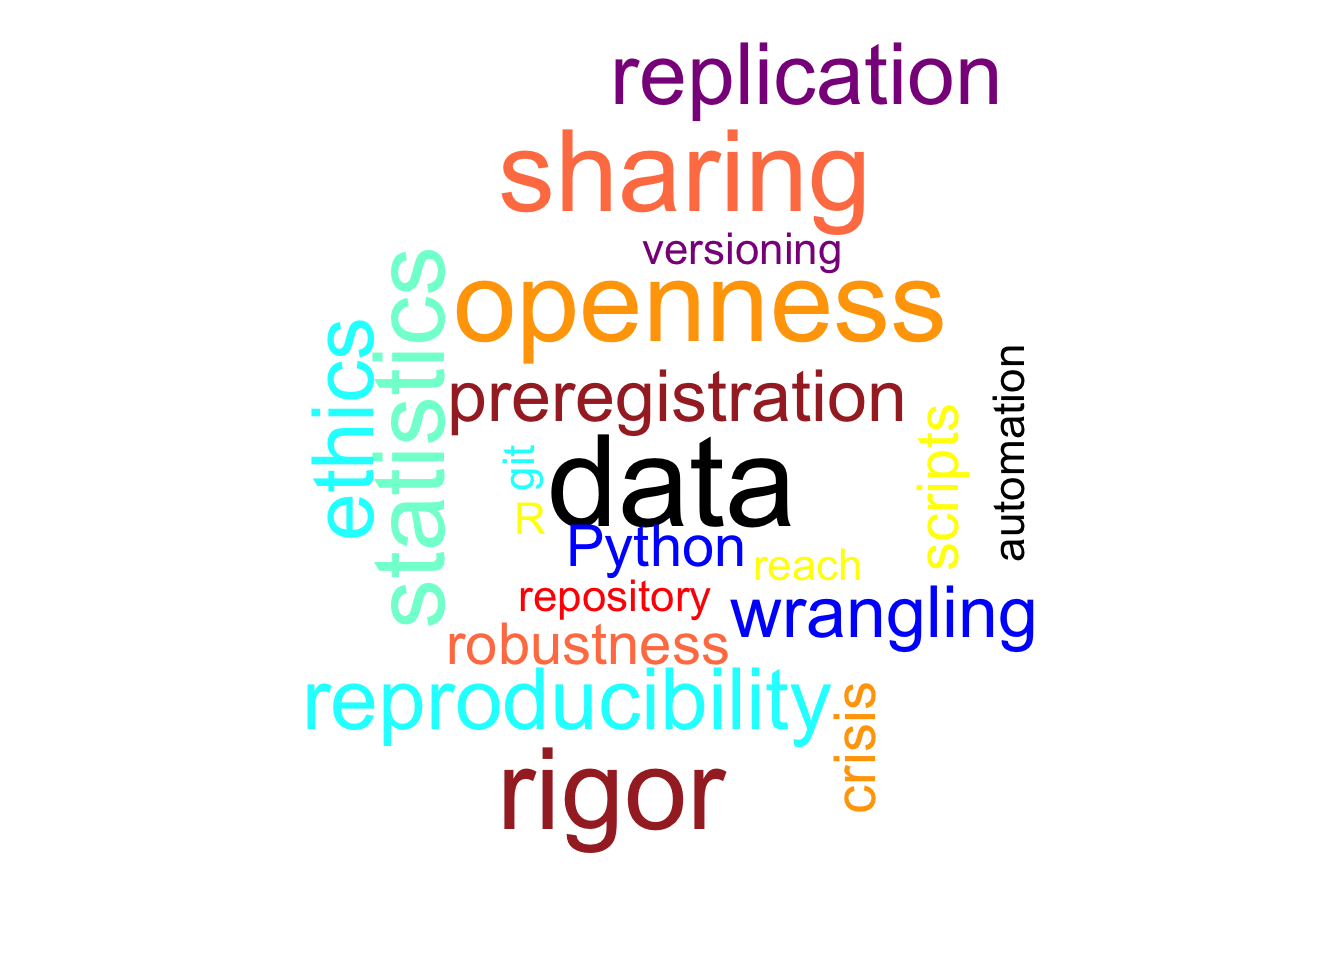
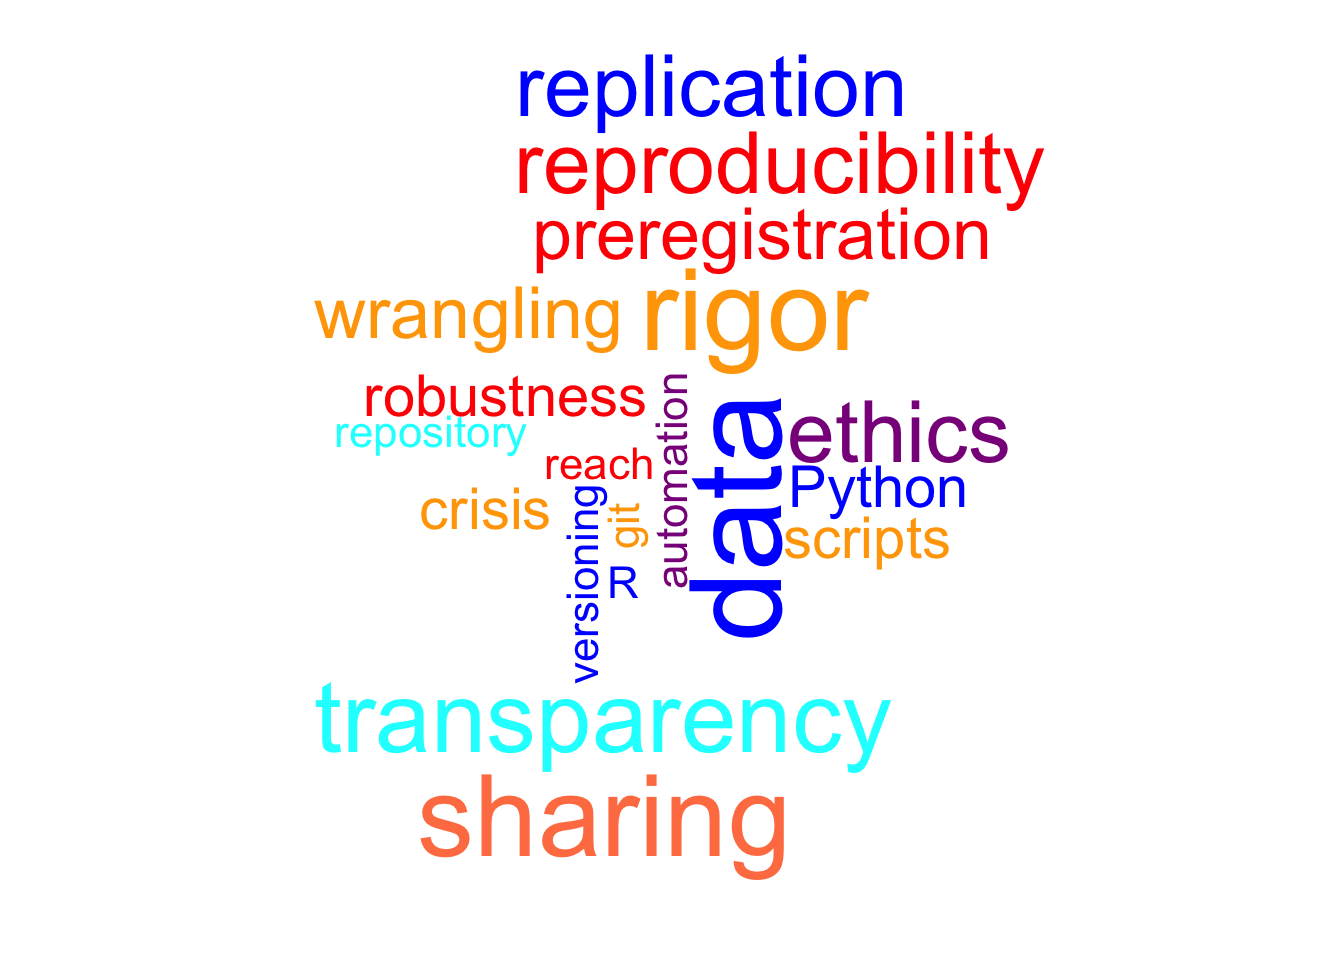
Commented-out presentation topics that we are unlikely to offer.

Changed region(s): [[0.2188, 0.0312, 0.7812, 0.9375]]

diff --git a/docs/presentation-topics.html b/docs/presentation-topics.html
@@ -6,15 +6,15 @@
 <meta name="viewport" content="width=device-width, initial-scale=1, shrink-to-fit=no">
 <title>Presentation topics | Open Science Bootcamp 2023</title>
 <meta name="author" content="The 2023 Bootcamp Program Planning Committee">
-<meta name="description" content="The following are potential presentation topics we are considering for Day 1 and Day 2. These are also topics that might be offered later on after the bootcamp. Some of the presentations have been...">
+<meta name="description" content="The following are potential presentation topics for Day 1 and Day 2. The hands-on topics offered have been shaped by the preferences of prospective participants, as indicated in a May 2023 survey....">
 <meta name="generator" content="bookdown 0.34 with bs4_book()">
 <meta property="og:title" content="Presentation topics | Open Science Bootcamp 2023">
 <meta property="og:type" content="book">
 <meta property="og:url" content="https://penn-state-open-science.github.io/bootcamp-2023/presentation-topics.html">
-<meta property="og:description" content="The following are potential presentation topics we are considering for Day 1 and Day 2. These are also topics that might be offered later on after the bootcamp. Some of the presentations have been...">
+<meta property="og:description" content="The following are potential presentation topics for Day 1 and Day 2. The hands-on topics offered have been shaped by the preferences of prospective participants, as indicated in a May 2023 survey....">
 <meta name="twitter:card" content="summary">
 <meta name="twitter:title" content="Presentation topics | Open Science Bootcamp 2023">
-<meta name="twitter:description" content="The following are potential presentation topics we are considering for Day 1 and Day 2. These are also topics that might be offered later on after the bootcamp. Some of the presentations have been...">
+<meta name="twitter:description" content="The following are potential presentation topics for Day 1 and Day 2. The hands-on topics offered have been shaped by the preferences of prospective participants, as indicated in a May 2023 survey....">
 <!-- JS --><script src="https://cdnjs.cloudflare.com/ajax/libs/clipboard.js/2.0.6/clipboard.min.js" integrity="sha256-inc5kl9MA1hkeYUt+EC3BhlIgyp/2jDIyBLS6k3UxPI=" crossorigin="anonymous"></script><script src="https://cdnjs.cloudflare.com/ajax/libs/fuse.js/6.4.6/fuse.js" integrity="sha512-zv6Ywkjyktsohkbp9bb45V6tEMoWhzFzXis+LrMehmJZZSys19Yxf1dopHx7WzIKxr5tK2dVcYmaCk2uqdjF4A==" crossorigin="anonymous"></script><script src="https://kit.fontawesome.com/6ecbd6c532.js" crossorigin="anonymous"></script><script src="libs/jquery-3.6.0/jquery-3.6.0.min.js"></script><meta name="viewport" content="width=device-width, initial-scale=1, shrink-to-fit=no">
 <link href="libs/bootstrap-4.6.0/bootstrap.min.css" rel="stylesheet">
 <script src="libs/bootstrap-4.6.0/bootstrap.bundle.min.js"></script><script src="libs/bs3compat-0.4.2/transition.js"></script><script src="libs/bs3compat-0.4.2/tabs.js"></script><script src="libs/bs3compat-0.4.2/bs3compat.js"></script><link href="libs/bs4_book-1.0.0/bs4_book.css" rel="stylesheet">
@@ -91,13 +91,8 @@
   </header><main class="col-sm-12 col-md-9 col-lg-7" id="content"><div id="presentation-topics" class="section level1 unnumbered">
 <h1>Presentation topics<a class="anchor" aria-label="anchor" href="#presentation-topics"><i class="fas fa-link"></i></a>
 </h1>
-<p>The following are potential presentation topics we are considering for <a href="day_1.html#day_1">Day 1</a> and <a href="day_2.html#day_2">Day 2</a>.</p>
-<p>These are also topics that might be offered later on after the bootcamp.</p>
-<p>Some of the presentations have been suggested by a specific person, and others are topics that Rick Gilmore thought might be appropriate for a person or group.
-The person indicated in the parentheses is the tentative or proposed coordinator for that workshop as of 2023-06-28.
-Question marks (?) indicate that the person has not yet confirmed their interest or availability.
-The information is merely for planning purposes.
-Which hands-on topics we offer will be shaped by the preferences of prospective participants, as indicated in a May 2023 <a href="attendee-surveys.html#results">survey</a>.</p>
+<p>The following are potential presentation topics for <a href="day_1.html#day_1">Day 1</a> and <a href="day_2.html#day_2">Day 2</a>.</p>
+<p>The hands-on topics offered have been shaped by the preferences of prospective participants, as indicated in a May 2023 <a href="attendee-surveys.html#results">survey</a>.</p>
 <div id="theme-what-is-open-science-open-science-psu" class="section level2 unnumbered">
 <h2>Theme: What is open science? Open science @ PSU<a class="anchor" aria-label="anchor" href="#theme-what-is-open-science-open-science-psu"><i class="fas fa-link"></i></a>
 </h2>
@@ -172,7 +167,7 @@ These tools can be used to create slides, analysis reports, papers, and web site
 <p><em>Offered</em>: <a href="day_2.html#day_2_am_session_2">Thu AM Session 2</a>.</p>
 </div>
 <div id="howto_data_management_policies" class="section level3 unnumbered">
-<h3>Data management policies (<a href="program-planning-committee.html#briana-wham">Briana Wham</a> &amp; <a href="program-planning-committee.html#alaina-pearce">Alaina Pearce</a>)<a class="anchor" aria-label="anchor" href="#howto_data_management_policies"><i class="fas fa-link"></i></a>
+<h3>Data management: Policies (<a href="program-planning-committee.html#briana-wham">Briana Wham</a> &amp; <a href="program-planning-committee.html#alaina-pearce">Alaina Pearce</a>)<a class="anchor" aria-label="anchor" href="#howto_data_management_policies"><i class="fas fa-link"></i></a>
 </h3>
 <p>How to manage data to meet funder requirements and make sharing with collaborators and other researchers less burdensome.</p>
 <p><em>Prerequisites</em>: None</p>
@@ -222,48 +217,27 @@ results and figures can be verified.</p>
 <p><em>Skill level</em>: Novice</p>
 <p><em>Time required</em>: 1 hour</p>
 <p><em>Offered</em>: <a href="day_2.html#day_2_pm_session_4">Thu PM Session 4</a>.</p>
-</div>
-</div>
-<div id="other-topicspresenters" class="section level2 unnumbered">
-<h2>Other topics/presenters<a class="anchor" aria-label="anchor" href="#other-topicspresenters"><i class="fas fa-link"></i></a>
-</h2>
-<div id="howto_git" class="section level3 unnumbered">
-<h3>Version control with git, GitHub, and GitLab (<a href="program-planning-committee.html#carrie-brown">Carrie Brown</a>)<a class="anchor" aria-label="anchor" href="#howto_git"><i class="fas fa-link"></i></a>
-</h3>
-<p><em>Prerequisites</em>:</p>
-<p><em>Skill level</em>:</p>
-<p><em>Time required</em>: 2-4 hrs.</p>
-</div>
-<div id="howto_open_access" class="section level3 unnumbered">
-<h3>Open access publishing (<a href="program-planning-committee.html#briana-wham">Briana Wham</a>?)<a class="anchor" aria-label="anchor" href="#howto_open_access"><i class="fas fa-link"></i></a>
-</h3>
-<p>Where and how to share your research so that the maximum number of people can read it.</p>
-</div>
-<div id="reproducible-software" class="section level3 unnumbered">
-<h3>Reproducible software (<a href="program-planning-committee.html#carrie-brown">Carrie Brown</a>? &amp; <a href="program-planning-committee.html#alaina-pearce">Alaina Pearce</a>?)<a class="anchor" aria-label="anchor" href="#reproducible-software"><i class="fas fa-link"></i></a>
-</h3>
-<p>How to make your code reproducible; Conda; software environments, R packages for data wrangling and cleaning.</p>
-<p><em>Prerequisites</em>: Familiarity with a programming language (e.g., R, Python, Matlab)</p>
-<p><em>Skill level</em>: Intermediate</p>
-<p><em>Time required</em>:</p>
-</div>
-<div id="casestudy_PLAY" class="section level3 unnumbered">
-<h3>Case study: Big data behavioral science: The Play &amp; Learning Across a Year (PLAY) Project (<a href="program-planning-committee.html#rick-gilmore">Rick Gilmore</a>)<a class="anchor" aria-label="anchor" href="#casestudy_PLAY"><i class="fas fa-link"></i></a>
-</h3>
-<p>The <a href="https://play-project.org">Play &amp; Learning Across a Year (PLAY) Project</a> is an <a href="https://reporter.nih.gov/search/PJYxIpAvQkyD2ZNPUPbp8Q/project-details/9500957">NIH-funded research project</a> that is recording, annotating, and sharing video recordings of mothers and their infants engaged in natural activities in the home.
-In addition to providing a first-of-its-kind openly shared video corpus of natural behavior via <a href="https://databrary.org">Databrary</a>, PLAY’s entire <a href="https://play-project.org">protocol</a> is openly shared on the web, and the project’s survey data results are <a href="https://PLAY-behaviorome.github.io/KoBoToolbox/">openly summarized</a> and regularly updated. As such, PLAY provides a test-case for how open science practices work in a large-scale, geographically distributed research project that collects and intends to share identifiable data.</p>
-</div>
-<div id="casestudy_economics" class="section level3 unnumbered">
-<h3>Reproducible research in economics (<a href="https://www.ilr.cornell.edu/people/lars-vilhuber">Lars Vilhuber</a>, Cornell?)<a class="anchor" aria-label="anchor" href="#casestudy_economics"><i class="fas fa-link"></i></a>
-</h3>
-</div>
-<div id="howto_reproducibility" class="section level3 unnumbered">
-<h3>Reproducible and robust research has wider reach (?)<a class="anchor" aria-label="anchor" href="#howto_reproducibility"><i class="fas fa-link"></i></a>
-</h3>
-<p>Types of reproducibility. How building reproducible research workflows can make your work more robust and more readily shareable.</p>
-<p><em>Prerequisites</em>: None</p>
-<p><em>Skill level</em>: Novice</p>
-<p><em>Time required</em>: 30 min</p>
+<!-- ## Other topics/presenters {-} -->
+<!-- ### Version control with git, GitHub, and GitLab ([Carrie Brown]) {- #howto_git} -->
+<!-- *Prerequisites*:  -->
+<!-- *Skill level*:  -->
+<!-- *Time required*: 2-4 hrs. -->
+<!-- ### Open access publishing {- #howto_open_access} -->
+<!-- Where and how to share your research so that the maximum number of people can read it. -->
+<!-- ### Reproducible software ([Carrie Brown]? & [Alaina Pearce]?) {- #reproducible-software} -->
+<!-- How to make your code reproducible; Conda; software environments, R packages for data wrangling and cleaning. -->
+<!-- *Prerequisites*: Familiarity with a programming language (e.g., R, Python, Matlab) -->
+<!-- *Skill level*: Intermediate -->
+<!-- *Time required*:  -->
+<!-- ### Case study: Big data behavioral science: The Play & Learning Across a Year (PLAY) Project ([Rick Gilmore]) {- #casestudy_PLAY} -->
+<!-- The [Play & Learning Across a Year (PLAY) Project](https://play-project.org) is an [NIH-funded research project](https://reporter.nih.gov/search/PJYxIpAvQkyD2ZNPUPbp8Q/project-details/9500957) that is recording, annotating, and sharing video recordings of mothers and their infants engaged in natural activities in the home. -->
+<!-- In addition to providing a first-of-its-kind openly shared video corpus of natural behavior via [Databrary](https://databrary.org), PLAY's entire [protocol](https://play-project.org) is openly shared on the web, and the project's survey data results are [openly summarized](https://PLAY-behaviorome.github.io/KoBoToolbox/) and regularly updated. As such, PLAY provides a test-case for how open science practices work in a large-scale, geographically distributed research project that collects and intends to share identifiable data. -->
+<!-- ### Reproducible research in economics ([Lars Vilhuber](https://www.ilr.cornell.edu/people/lars-vilhuber), Cornell?) {- #casestudy_economics} -->
+<!-- ### Reproducible and robust research has wider reach {- #howto_reproducibility} -->
+<!-- Types of reproducibility. How building reproducible research workflows can make your work more robust and more readily shareable. -->
+<!-- *Prerequisites*: None -->
+<!-- *Skill level*: Novice -->
+<!-- *Time required*: 30 min -->
 
 </div>
 </div>
@@ -289,21 +263,11 @@ In addition to providing a first-of-its-kind openly shared video corpus of natur
 <li><a class="nav-link" href="#howto_replication">Replication studies (Kevin McManus)</a></li>
 <li><a class="nav-link" href="#howto_responsible_research">Responsible and robust research (Nicole Lazar &amp; Jennifer Valcin)</a></li>
 <li><a class="nav-link" href="#howto_rmarkdown">Literate Programming with R Markdown and Quarto (Rick Gilmore &amp; Jennifer Valcin)</a></li>
-<li><a class="nav-link" href="#howto_data_management_policies">Data management policies (Briana Wham &amp; Alaina Pearce)</a></li>
+<li><a class="nav-link" href="#howto_data_management_policies">Data management: Policies (Briana Wham &amp; Alaina Pearce)</a></li>
 <li><a class="nav-link" href="#howto_data_management_practical">Data management: Practicalities (Alaina Pearce &amp; Briana Wham)</a></li>
 <li><a class="nav-link" href="#howto_early_career">Where to start? Open science for early career researchers (Daisy Lei?, Hollie Mullin?, Mike Burnham?, &amp; Sai Koneru?)</a></li>
 <li><a class="nav-link" href="#howto_data_sharing">Sharing data and materials (Rick Gilmore &amp; Bruce Desmarais)</a></li>
 <li><a class="nav-link" href="#howto_jupyter">Literate programming with Jupyter notebooks (Mike Burnham)</a></li>
-</ul>
-</li>
-<li>
-<a class="nav-link" href="#other-topicspresenters">Other topics/presenters</a><ul class="nav navbar-nav">
-<li><a class="nav-link" href="#howto_git">Version control with git, GitHub, and GitLab (Carrie Brown)</a></li>
-<li><a class="nav-link" href="#howto_open_access">Open access publishing (Briana Wham?)</a></li>
-<li><a class="nav-link" href="#reproducible-software">Reproducible software (Carrie Brown? &amp; Alaina Pearce?)</a></li>
-<li><a class="nav-link" href="#casestudy_PLAY">Case study: Big data behavioral science: The Play &amp; Learning Across a Year (PLAY) Project (Rick Gilmore)</a></li>
-<li><a class="nav-link" href="#casestudy_economics">Reproducible research in economics (Lars Vilhuber, Cornell?)</a></li>
-<li><a class="nav-link" href="#howto_reproducibility">Reproducible and robust research has wider reach (?)</a></li>
 </ul>
 </li>
 </ul>

diff --git a/docs/attendee-surveys.html b/docs/attendee-surveys.html
@@ -6,15 +6,15 @@
 <meta name="viewport" content="width=device-width, initial-scale=1, shrink-to-fit=no">
 <title>Attendee surveys | Open Science Bootcamp 2023</title>
 <meta name="author" content="The 2023 Bootcamp Program Planning Committee">
-<meta name="description" content="This page summarizes the data collected from prospective and actual Bootcamp attendees. Survey 1 - May 1, 2023 Render date: 2023-06-28 12:35:11.60283 Survey link:...">
+<meta name="description" content="This page summarizes the data collected from prospective and actual Bootcamp attendees. Survey 1 - May 1, 2023 Render date: 2023-06-28 12:46:17.826605 Survey link:...">
 <meta name="generator" content="bookdown 0.34 with bs4_book()">
 <meta property="og:title" content="Attendee surveys | Open Science Bootcamp 2023">
 <meta property="og:type" content="book">
 <meta property="og:url" content="https://penn-state-open-science.github.io/bootcamp-2023/attendee-surveys.html">
-<meta property="og:description" content="This page summarizes the data collected from prospective and actual Bootcamp attendees. Survey 1 - May 1, 2023 Render date: 2023-06-28 12:35:11.60283 Survey link:...">
+<meta property="og:description" content="This page summarizes the data collected from prospective and actual Bootcamp attendees. Survey 1 - May 1, 2023 Render date: 2023-06-28 12:46:17.826605 Survey link:...">
 <meta name="twitter:card" content="summary">
 <meta name="twitter:title" content="Attendee surveys | Open Science Bootcamp 2023">
-<meta name="twitter:description" content="This page summarizes the data collected from prospective and actual Bootcamp attendees. Survey 1 - May 1, 2023 Render date: 2023-06-28 12:35:11.60283 Survey link:...">
+<meta name="twitter:description" content="This page summarizes the data collected from prospective and actual Bootcamp attendees. Survey 1 - May 1, 2023 Render date: 2023-06-28 12:46:17.826605 Survey link:...">
 <!-- JS --><script src="https://cdnjs.cloudflare.com/ajax/libs/clipboard.js/2.0.6/clipboard.min.js" integrity="sha256-inc5kl9MA1hkeYUt+EC3BhlIgyp/2jDIyBLS6k3UxPI=" crossorigin="anonymous"></script><script src="https://cdnjs.cloudflare.com/ajax/libs/fuse.js/6.4.6/fuse.js" integrity="sha512-zv6Ywkjyktsohkbp9bb45V6tEMoWhzFzXis+LrMehmJZZSys19Yxf1dopHx7WzIKxr5tK2dVcYmaCk2uqdjF4A==" crossorigin="anonymous"></script><script src="https://kit.fontawesome.com/6ecbd6c532.js" crossorigin="anonymous"></script><script src="libs/jquery-3.6.0/jquery-3.6.0.min.js"></script><meta name="viewport" content="width=device-width, initial-scale=1, shrink-to-fit=no">
 <link href="libs/bootstrap-4.6.0/bootstrap.min.css" rel="stylesheet">
 <script src="libs/bootstrap-4.6.0/bootstrap.bundle.min.js"></script><script src="libs/bs3compat-0.4.2/transition.js"></script><script src="libs/bs3compat-0.4.2/tabs.js"></script><script src="libs/bs3compat-0.4.2/bs3compat.js"></script><link href="libs/bs4_book-1.0.0/bs4_book.css" rel="stylesheet">
@@ -95,7 +95,7 @@
 <div id="survey-1---may-1-2023" class="section level2 unnumbered">
 <h2>Survey 1 - May 1, 2023<a class="anchor" aria-label="anchor" href="#survey-1---may-1-2023"><i class="fas fa-link"></i></a>
 </h2>
-<p>Render date: 2023-06-28 12:35:11.60283</p>
+<p>Render date: 2023-06-28 12:46:17.826605</p>
 <p>Survey link: <a href="https://docs.google.com/forms/d/e/1FAIpQLSf_hIVQz3CoDq2bzjTNExw-Hn6uXLAf8ri4v8k5lRkifclxsQ/viewform?usp=sf_link" class="uri">https://docs.google.com/forms/d/e/1FAIpQLSf_hIVQz3CoDq2bzjTNExw-Hn6uXLAf8ri4v8k5lRkifclxsQ/viewform?usp=sf_link</a></p>
 <iframe src="https://docs.google.com/forms/d/e/1FAIpQLSf_hIVQz3CoDq2bzjTNExw-Hn6uXLAf8ri4v8k5lRkifclxsQ/viewform?embedded=true" width="640" height="1321" frameborder="0" marginheight="0" marginwidth="0">
 Loading…
@@ -104,7 +104,6 @@ Loading…
 <h3>Results<a class="anchor" aria-label="anchor" href="#results"><i class="fas fa-link"></i></a>
 </h3>
 <p>Download.</p>
-<pre><code>## Auto-refreshing stale OAuth token.</code></pre>
 <pre><code>## File downloaded:</code></pre>
 <pre><code>## • 'Open Science Bootcamp 2023 (Responses)' &lt;id: 17Rd9rxVKmNPQezRJjrWMpa7aE8KtCfMggXi-Pv18Nzc&gt;</code></pre>
 <pre><code>## Saved locally as:</code></pre>
